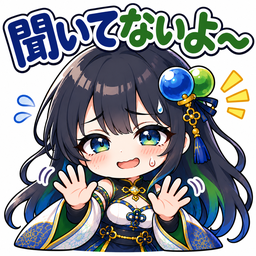
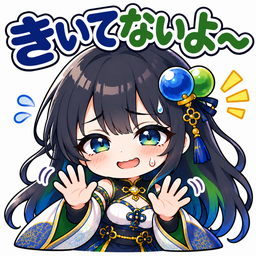
feat(stamp): スタンプを 36 種に (オタサー麻雀 ch の isg さんの最終盤)
- New 11 種: やったー ・ 残念 ・ ありがとう ・ ごめんね ・ 下手くそ ・ ブロックサイン ・ まだ〜？ ・ 怒ってる…？ ・ 悔しい？ ・ 正転 ・ 中指
- 赤黄のこ ・ きいてないよ～ は絵の差し替え (ラベルもひらがなに)
- 並びは盤のまとめ通り 4 列 x 9 段。サーバの許可リストも同じ 36 種
- 絵はもらった 1254 角を 256 角に縮めただけ。限定の「急に静か」はまだ入れていない

diff --git a/src/lib/store.ts b/src/lib/store.ts
@@ -55,14 +55,18 @@ import {
 // リョー指示 2026-05-15: 段階的に復活。2026-11-02 リョー「このへんからスタンプ足して」で 17 種
 // [隠していた 8 種は絵を元のシートから切り直し、一発ポッチを新しく、マイ転とサイコロは新しい絵]
 // 2026-11-03 リョー「これスタンプ足してあげて」で 8 種足して 25 種 [2p の牌の絵は「一発2p」]
+// 2026-11-04 オタサーの麻雀 ch で isg さんがまとめた最終盤で 36 種 [並びも 4 列でその通り。New 11 ・ 赤黄ときいてないは絵の差し替え]
 // STAMP_IDS から外すだけで pallet / popup から消える。server/ws_server.ts の STAMP_IDS も同じ並びにする
 export const STAMP_IDS = [
-  'shunkashutou', 'kita4', 'konmika', 'shubapotsumo',
-  'doko', 'gyakushubatsumo', 'plus', 'minus',
-  'saikoro', 'ippatsu', 'fever', 'koi',
-  'shuva', 'utare', 'akakino', 'magege', 'udeba',
-  'kiitenai', 'unge', 'ippatsu2p', 'shubarenkane',
-  'mudasaikoro', 'ojouzu', 'pon', 'kagayaku',
+  'yatta', 'zannen', 'arigatou', 'gomenne',
+  'shubapotsumo', 'gyakushubatsumo', 'plus', 'minus',
+  'doko', 'ippatsu', 'fever', 'koi',
+  'magege', 'akakino', 'udeba', 'unge',
+  'shuva', 'shubarenkane', 'ojouzu', 'heta',
+  'utare', 'mudasaikoro', 'pon', 'block',
+  'kiitenai', 'mada', 'okotteru', 'kuyashii',
+  'konmika', 'shunkashutou', 'kita4', 'saikoro',
+  'seiten', 'kagayaku', 'nakayubi', 'ippatsu2p',
 ] as const;
 export type StampId = typeof STAMP_IDS[number];
 export const STAMP_LABELS: Record<StampId, string> = {
@@ -83,7 +87,7 @@ export const STAMP_LABELS: Record<StampId, string> = {
   akakino: '赤黄のこ',
   magege: '曲げ得',
   udeba: '腕場',
-  kiitenai: '聞いてないよ～',
+  kiitenai: 'きいてないよ～',
   unge: '運ゲー',
   ippatsu2p: '一発2p',
   shubarenkane: 'シュバれんかね',
@@ -91,6 +95,17 @@ export const STAMP_LABELS: Record<StampId, string> = {
   ojouzu: 'お上手',
   pon: 'ポン！？',
   kagayaku: '輝く配牌',
+  yatta: 'やったー！',
+  zannen: '残念…',
+  arigatou: 'ありがとう',
+  gomenne: 'ごめんね',
+  heta: '下手くそ',
+  block: 'ブロックサイン',
+  mada: 'まだ〜？',
+  okotteru: '怒ってる…？',
+  kuyashii: '悔しい？',
+  seiten: '正転',
+  nakayubi: '中指',
 };
 const _STAMP_ID_SET: Set<string> = new Set(STAMP_IDS);
 /** スタンプ表示の自動 fade-out [ms] */

diff --git a/server/ws_server.ts b/server/ws_server.ts
@@ -56,14 +56,17 @@ const DEFAULT_MATCH_RECORD_RETRY_DELAYS_MS = [0, 2_000, 5_000];
 const DEFAULT_NEXT_ROUND_TIMEOUT_MS = 180_000;
 const SERVER_NEXT_ROUND_UID = '__server_next_round__';
 
-// src/lib/store.ts の STAMP_IDS と同じ (2026-11-03 25 種)
+// src/lib/store.ts の STAMP_IDS と同じ (2026-11-04 36 種)
 const STAMP_IDS = new Set([
-  'shunkashutou', 'kita4', 'konmika', 'shubapotsumo',
-  'doko', 'gyakushubatsumo', 'plus', 'minus',
-  'saikoro', 'ippatsu', 'fever', 'koi',
-  'shuva', 'utare', 'akakino', 'magege', 'udeba',
-  'kiitenai', 'unge', 'ippatsu2p', 'shubarenkane',
-  'mudasaikoro', 'ojouzu', 'pon', 'kagayaku',
+  'yatta', 'zannen', 'arigatou', 'gomenne',
+  'shubapotsumo', 'gyakushubatsumo', 'plus', 'minus',
+  'doko', 'ippatsu', 'fever', 'koi',
+  'magege', 'akakino', 'udeba', 'unge',
+  'shuva', 'shubarenkane', 'ojouzu', 'heta',
+  'utare', 'mudasaikoro', 'pon', 'block',
+  'kiitenai', 'mada', 'okotteru', 'kuyashii',
+  'konmika', 'shunkashutou', 'kita4', 'saikoro',
+  'seiten', 'kagayaku', 'nakayubi', 'ippatsu2p',
 ]);
 // [2026-10-09 R3] 1 frame の上限。client が送るのは action / resync / stamp 等の小さな JSON だけ
 // [数百 B。バグ通報の状態ダンプは ws ではなく HTTP POST /api/bugreport]。ws 既定の 100MB のままだと

diff --git a/src/lib/StampPallet.svelte b/src/lib/StampPallet.svelte
@@ -1,6 +1,6 @@
 
 <script lang="ts">
-  // スタンプ pallet [25 種 grid、背が足りない時は縦に送る、 thumb image + label]
+  // スタンプ pallet [36 種 grid、背が足りない時は縦に送る、 thumb image + label]
   // 自家 panel の「💬」 button から open、 click で sendStamp
   import { STAMP_IDS, STAMP_LABELS, type StampId } from './store';
   export let onSelect: (id: StampId) => void;
